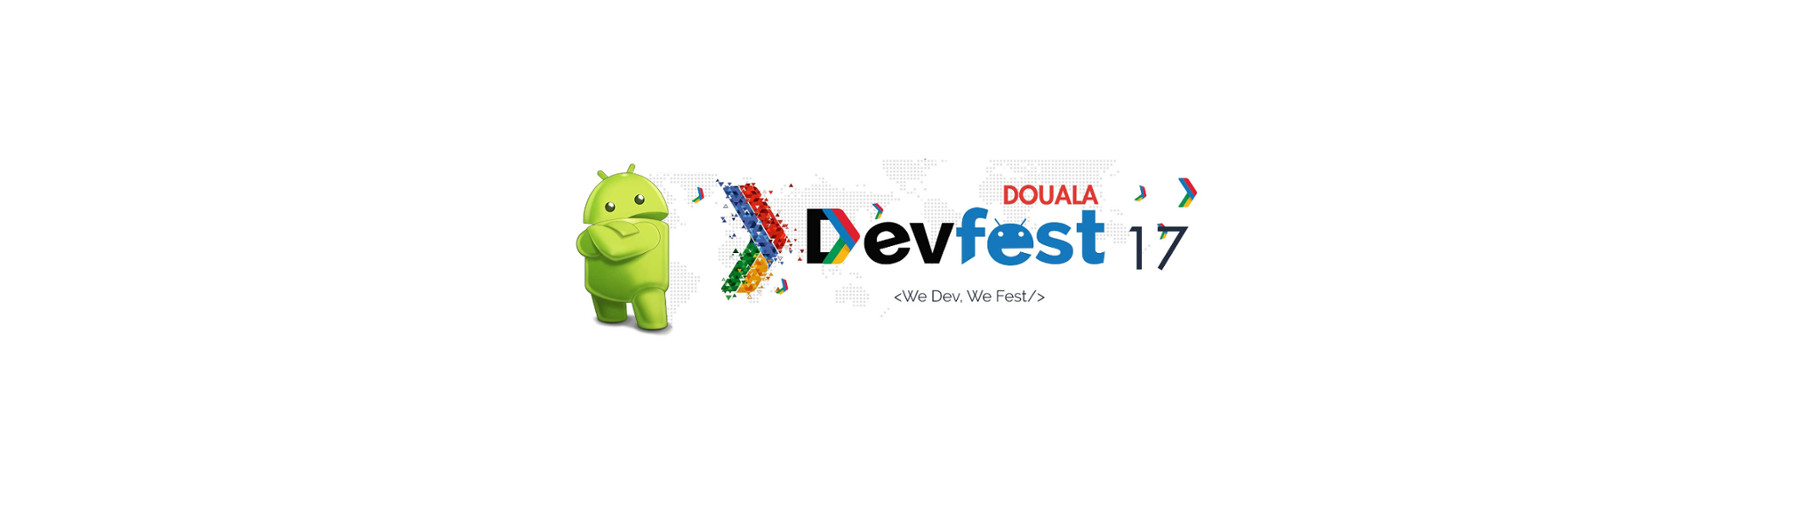
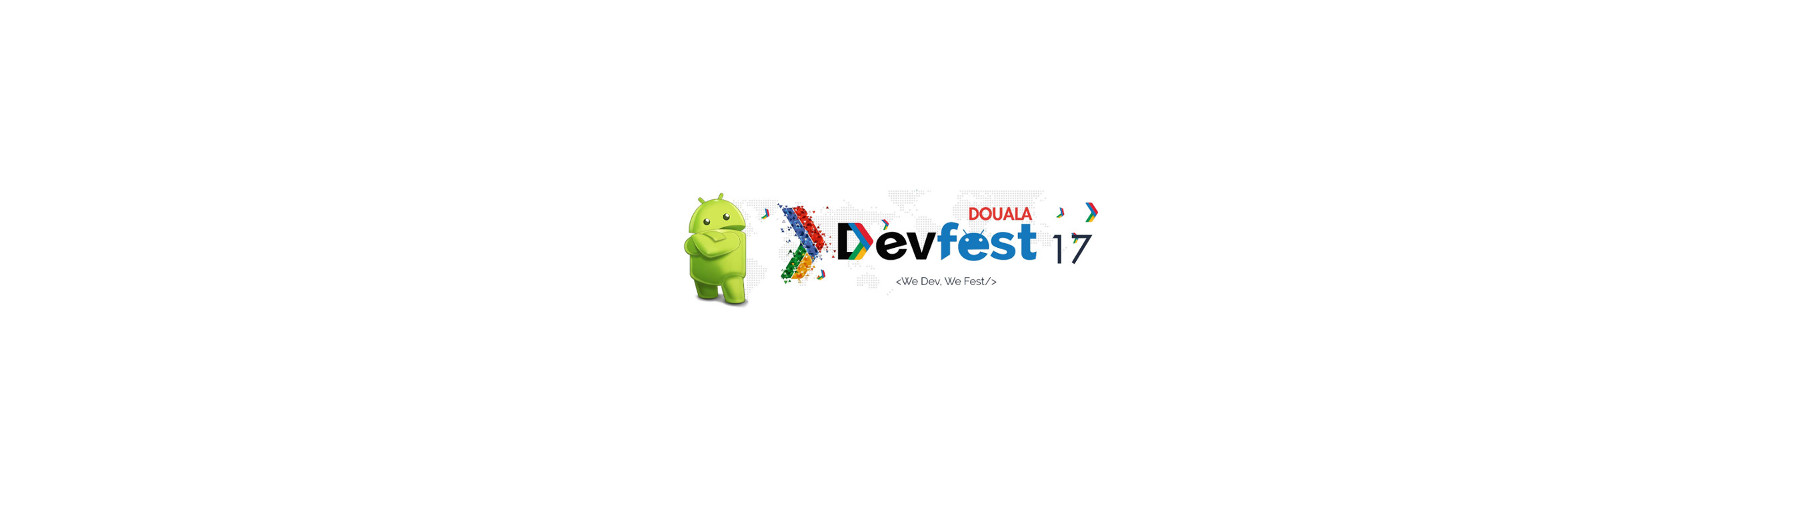
all good

Changed region(s): [[0.3111, 0.3261, 0.6844, 0.6818], [0.6533, 0.3557, 0.6844, 0.415]]

diff --git a/src/elements/header-content.html b/src/elements/header-content.html
@@ -77,12 +77,14 @@
       .dates {
         font-size: 18px;
         text-transform: uppercase;
+        font-weight:bold;
       }
 
       .motto {
         margin-top: 20px;
         font-size: 22px;
         line-height: 1;
+        font-weight:bold;
       }
 
       .action-buttons {
@@ -128,8 +130,8 @@
         <animatable-content name="home">
           <div class="container" center-justified>
             <div class="home-wrapper">
-              <iron-image class="logo" src="/images/logo-light.svg" sizing="contain"
-                          alt="GDG DevFest Ukraine 2016"></iron-image>
+              <iron-image class="logo" src="/images/devfest-logo.png" sizing="contain"
+                          alt="GDG DevFest Douala 2017"></iron-image>
               <h3 class="dates">{$ dates $}</h3>
               <h2 class="motto">{$ motto $}</h2>
               {% if pages.home.headerSettings.video %}
@@ -144,15 +146,15 @@
             </div>
           </div>
         </animatable-content>
-        <animatable-content name="blog">
+        <animatable-content name="speakers">
           <div class="container">
-            <h3 class="page-title" hidden$="{{app.headerSettings.title}}">{$ pages.blog.title $}</h3>
+            <h3 class="page-title" hidden$="{{app.headerSettings.title}}">{$ pages.speakers.title $}</h3>
             <h3 class="page-title" hidden$="{{!app.headerSettings.title}}">[[app.headerSettings.title]]</h3>
             <div class="page-subtitle" hidden$="{{!app.headerSettings.subtitle}}">[[app.headerSettings.subtitle]]</div>
           </div>
         </animatable-content>
         {% for page, settings in pages %}
-          {% if page !== 'home' and page !== 'blog' %}
+          {% if page !== 'home' and page !== 'speakers' %}
             <animatable-content name="{$ page $}">
               <div class="container">
                 <h3 class="page-title">{$ settings.title $}</h3>

diff --git a/src/elements/footer-block.html b/src/elements/footer-block.html
@@ -43,7 +43,7 @@
 
       .gdg-logo {
         margin: 10px 10px 0 0;
-        height: 24px;
+        height: 96px;
         width: 120px;
         display: block;
       }
@@ -59,6 +59,7 @@
       .footer-backtotop {
         margin-right: -14px;
         margin-bottom: 20px;
+        color:#222;
       }
 
       .footer-content {
@@ -75,6 +76,7 @@
       .link-block-title {
         margin-bottom: 10px;
         font-size: 18px;
+        font-weight: bold;
       }
 
       .link-block {
@@ -221,10 +223,10 @@
       <div class="footer-content footer-bottom">
         <!-- Please do NOT delete next block -->
         <div class="copyright">
-          &copy; 2016 Based on <a href="https://github.com/gdg-x/hoverboard" target="_blank" rel="noopener noreferrer">Project
-          Hoverboard</a>. Designed and created by <a href="http://o.zasadnyy.com/" target="_blank" rel="noopener noreferrer">Oleh
-          Zasadnyy</a> &middot;
-          <a href="http://lviv.gdg.org.ua" target="_blank" rel="noopener noreferrer">GDG Lviv</a>
+          &copy; 2017 Based on <a href="https://github.com/gdg-x/hoverboard" target="_blank" rel="noopener noreferrer">Project
+          Hoverboard</a>. Designed and created by <a href="https://twitter.com/alkamjior" target="_blank" rel="noopener noreferrer">Kamla Junior</a> &amp;
+        <a href="https://twitter.com/lorentzkonwo" target="_blank" rel="noopener noreferrer">Konwo Lorentz</a> &middot;
+          <a href="https://plus.google.com/communities/102681658141349850601" target="_blank" rel="noopener noreferrer">GDG Douala</a>
         </div>
         <div class="gplus">
           <g:plusone

diff --git a/src/elements/map-block.html b/src/elements/map-block.html
@@ -120,7 +120,7 @@
         longitude="{$ location.mapCenter.longitude $}"
         api-key="{$ location.apiKey $}"
         styles="[[options]]"
-        disable-zoom disable-default-ui
+        disable-default-ui
       >
         <google-map-marker
           latitude="{$ location.pointer.latitude $}"
@@ -128,7 +128,7 @@
         ></google-map-marker>
       </google-map>
     </template>
-    >
+    
     <div class="disable-map-events"></div>
     <div class="container">
       <div class="additional-space"></div>

diff --git a/src/elements/drawer-block.html b/src/elements/drawer-block.html
@@ -73,7 +73,7 @@
 
       .location {
         display: block;
-        color: #ff9800;
+        color: var(--primary-text-color);
       }
 
       .selected {
@@ -83,7 +83,7 @@
 
     <paper-toolbar class="tall">
       <div class="top">
-        <iron-image class="logo" src="/images/logo-white.svg" sizing="contain"
+        <iron-image class="logo" src="/images/devfest-logo.png" sizing="contain"
                     alt="{$ title $}"></iron-image>
       </div>
       <div class="bottom">

diff --git a/src/pages/team-page.html b/src/pages/team-page.html
@@ -206,7 +206,7 @@
 
       <template is="dom-repeat" items="[[app.team]]" as="team">
         <div class="team-block">
-          <h3 class="team-name" cascaded>[[team.title]]</h3>
+          <!--  <h3 class="team-name" cascaded>[[team.title]]</h3> -->
 
           <div class="team-container">
             <template is="dom-repeat" items="[[team.members]]" as="member" on-dom-change="updateCascadedNodes">

diff --git a/src/elements/app-data.html b/src/elements/app-data.html
@@ -94,7 +94,6 @@
       persisted-data="{{app.team}}">
     </app-indexeddb-mirror>
 
-    <!-- don't query for tickets... -
     <firebase-document
       id="queryTickets"
       app-name="{$ firebase.name $}"
@@ -108,7 +107,6 @@
       data="{{_firebaseTickets}}"
       persisted-data="{{app.tickets}}">
     </app-indexeddb-mirror>
-    -->
 
   </template>
   <script>

diff --git a/src/elements/toolbar-block.html b/src/elements/toolbar-block.html
@@ -139,7 +139,7 @@
         <a href="/" hidden$="{{hideLogo}}" fade>
           <iron-image
             class="logo"
-            src="/images/logo-white.svg"
+            src="/images/devfest-logo.png"
             sizing="contain"
             alt="{$ title $}"
           ></iron-image>

diff --git a/src/elements/social-post.html b/src/elements/social-post.html
@@ -60,7 +60,7 @@
           text: {
             type: String,
             observer: '_textChanged',
-            value: 'Post about your experience at GDG DevFest Ukraine 2016'
+            value: ''
           },
 
           when: {
